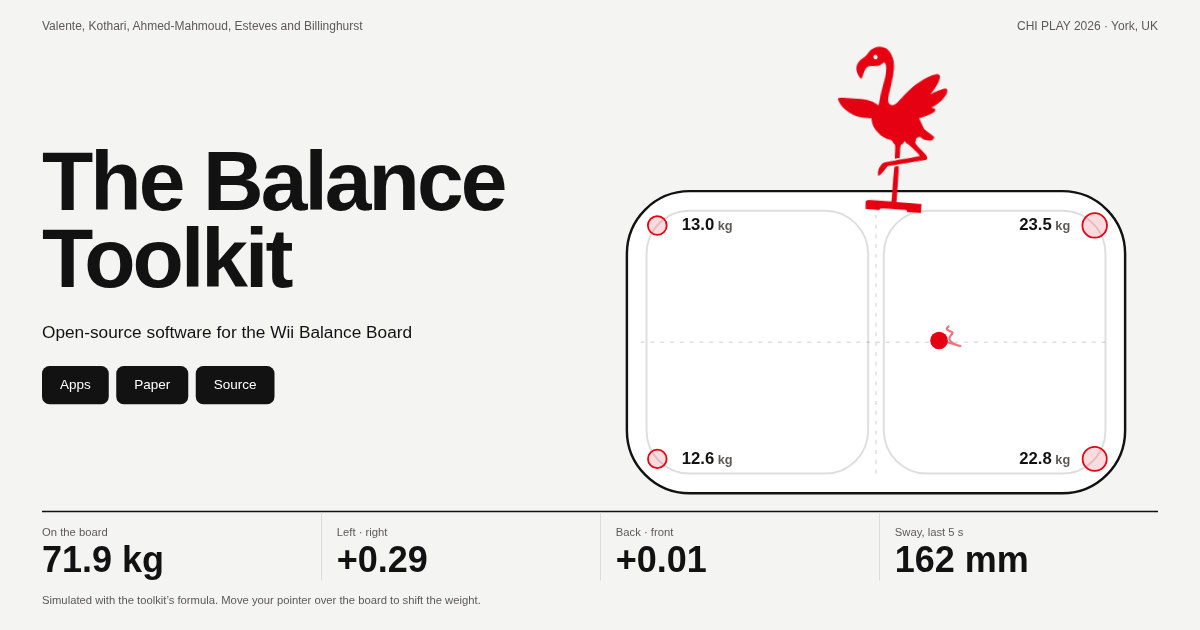
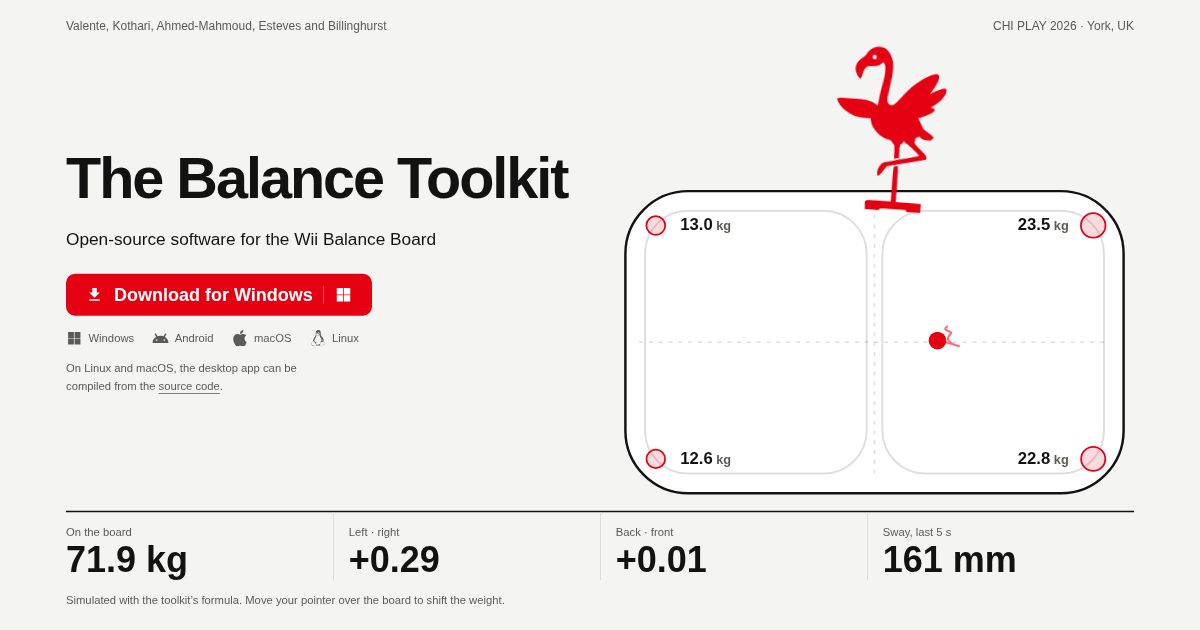
feat(website): put the download on the cover and embed the walkthrough
- Move the download to the cover: a red Download for Windows button (Android
  for Android visitors) and Windows, Android, macOS and Linux links, with the
  note that Linux and macOS build from source. Drop the old buttons, the
  footer links and the What's in the toolkit heading.
- Embed the YouTube walkthrough below the two recordings. It shows a local
  thumbnail and loads the youtube-nocookie player only when played.
- Keep the title on one line, narrow the side margins and cap the content at
  1640px; regenerate og.png.

diff --git a/website/index.html b/website/index.html
@@ -42,8 +42,8 @@ a { color: inherit; }
 /* The app's colours (white ground, ink, one red) and font, and its flamingo. */
 :root {
   --bg: #f4f4f2; --paper: #fff; --ink: #121212; --muted: #5b5a56; --rule: #d9d6cf;
-  --red: #e50012;
-  --pad: clamp(16px, 4vw, 56px);
+  --red: #e50012; --red-dark: #b8000e;
+  --pad: max(clamp(18px, 5.5vw, 88px), (100% - 1640px) / 2); /* side margins; content stops at 1640px and centres */
   --font: -apple-system, BlinkMacSystemFont, "Segoe UI", "Inter", "Roboto", "Helvetica Neue", Arial, sans-serif;
 }
 body { background: var(--bg); color: var(--ink); font: 400 18px/1.6 var(--font); }
@@ -63,11 +63,19 @@ p { margin: 0; }
 .live dt { font-size: 15px; color: var(--muted); }
 .live dd { margin: 0; font: 600 clamp(30px, 3vw, 48px)/1.1 var(--font); font-variant-numeric: tabular-nums; }
 .hint { grid-column: 1 / -1; margin-top: 14px; font-size: 15px; color: var(--muted); }
-.cover h1 { font-size: clamp(52px, 7vw, 120px); line-height: .92; letter-spacing: -.035em; margin-bottom: 28px; max-width: 6em; }
+.cover h1 { font-size: clamp(40px, 4.8vw, 84px); line-height: .92; letter-spacing: -.035em; margin-bottom: 28px; white-space: nowrap; }
 .lead { font-size: clamp(19px, 1.5vw, 23px); max-width: 40ch; margin-bottom: 28px; }
-.go { display: flex; flex-wrap: wrap; gap: 10px; }
-.btn { padding: 11px 24px; border-radius: 10px; background: var(--ink); color: #fff; font-weight: 500; text-decoration: none; transition: background .16s, transform .1s; }
-.btn:hover { background: var(--red); } .btn:active { transform: scale(.96); }
+
+/* Cover: one large download, its details, then every platform */
+.dl { display: inline-flex; align-items: center; gap: 14px; padding: 16px 26px; white-space: nowrap; border-radius: 12px; background: var(--red); color: #fff; font: 600 clamp(19px, 1.6vw, 24px)/1 var(--font); text-decoration: none; transition: background .16s, transform .1s; }
+.dl:hover { background: var(--red-dark); } .dl:active { transform: scale(.97); }
+.dl svg { width: 1em; height: 1em; fill: currentColor; flex: none; }
+.dl-os { display: flex; padding-left: 14px; border-left: 1px solid rgb(255 255 255 / .4); }
+.plat { list-style: none; display: flex; flex-wrap: wrap; gap: 8px 24px; padding: 0; margin: 18px 0 0; }
+.plat a { display: inline-flex; align-items: center; gap: 8px; color: var(--muted); font-size: 15px; text-decoration: none; transition: color .16s; }
+.plat a:hover { color: var(--red); }
+.plat svg { width: 22px; height: 22px; fill: currentColor; }
+.note { max-width: 40ch; margin-top: 8px; font-size: 15px; color: var(--muted); }
 
 /* The stage is centred in the space beside the title, and shrinks on short screens so the whole cover fits in one view. */
 .stage { display: grid; justify-items: center; justify-self: center; width: min(100%, clamp(400px, 131svh - 398px, 680px)); container-type: inline-size; }
@@ -87,21 +95,24 @@ p { margin: 0; }
 .sec { padding: clamp(64px, 8vw, 120px) var(--pad); border-top: 1px solid var(--ink); }
 .sec-head { display: grid; grid-template-columns: minmax(0, 1fr) minmax(0, 1.4fr); gap: 32px; align-items: end; margin-bottom: clamp(32px, 4vw, 56px); }
 .sec-head h2 { font-size: clamp(40px, 5vw, 76px); line-height: .95; }
+.sec-head > h2:only-child { grid-column: 1 / -1; } /* a heading alone in its row takes the full width, on one line */
 .sec-head p { max-width: 48ch; }
 
-/* Apps: screenshots */
-.shots { display: grid; grid-template-columns: repeat(2, minmax(0, 1fr)); gap: 16px; margin-bottom: clamp(32px, 4vw, 56px); }
+/* Apps: the two screen recordings side by side, and below them, centred at 7/12 of the width,
+   the walkthrough, which loads YouTube only when played. */
+.shots { display: grid; grid-template-columns: repeat(2, minmax(0, 1fr)); gap: 16px; }
 .shots video { width: 100%; height: auto; border-radius: 16px; background: var(--paper); }
+.shots .film { grid-column: 1 / -1; justify-self: center; width: calc((100% - 32px) * 7 / 12); margin-top: clamp(8px, 2.5vw, 32px); }
+.film { position: relative; display: block; aspect-ratio: 16 / 9; border-radius: 16px; overflow: hidden; background: var(--ink); }
+.film img, .film iframe { display: block; width: 100%; height: 100%; object-fit: cover; border: 0; }
+.film-play { position: absolute; inset: 0; margin: auto; display: grid; place-items: center; width: clamp(56px, 5vw, 80px); aspect-ratio: 1; border-radius: 50%; background: var(--red); transition: transform .2s, background .16s; }
+.film:hover .film-play { transform: scale(1.08); background: var(--red-dark); }
+.film-play svg { width: 42%; height: 42%; margin-left: 6%; fill: #fff; }
 
 /* Entrances: content is visible without script; with it, parts rise in turn */
 .js .rv { opacity: 0; transform: translateY(24px); transition: opacity .7s cubic-bezier(.16,1,.3,1), transform .7s cubic-bezier(.16,1,.3,1); transition-delay: var(--d, 0ms); }
 .js .rv.in { opacity: 1; transform: none; }
 
-/* Apps: the link rows of the current site */
-.rows { list-style: none; padding: 0; margin: 0; border-top: 1px solid var(--ink); }
-.rows a { display: block; padding: 18px 0; border-bottom: 1px solid var(--rule); font: 600 clamp(24px, 2.4vw, 34px)/1.1 var(--font); text-decoration: none; transition: padding .2s, color .16s; }
-.rows a:hover { color: var(--red); padding-left: 10px; }
-.note { margin-top: 20px; font-size: 17px; color: var(--muted); }
 
 /* Paper */
 .bib { background: var(--paper); border-radius: 20px; overflow: hidden; }
@@ -114,10 +125,10 @@ p { margin: 0; }
 .end { display: flex; justify-content: space-between; align-items: center; flex-wrap: wrap; gap: 12px 24px; padding: 22px var(--pad); border-top: 1px solid var(--rule); font-size: 15px; color: var(--muted); }
 .end span { display: flex; align-items: center; gap: 10px; }
 .end img { height: 21px; width: auto; }
-.end nav { display: flex; gap: 22px; }
 
 @media (max-width: 860px) {
   .cover, .sec-head { grid-template-columns: 1fr; }
+  .cover h1, .sec-head h2 { font-size: 9vw; } /* the longest heading (about 9em) still fits one line */
   .cover { min-height: 0; grid-template-rows: none; }
   .stage { justify-self: center; width: min(100%, 680px); }
   .byline { flex-direction: column; margin-bottom: 28px; }
@@ -125,11 +136,25 @@ p { margin: 0; }
   .live div:nth-child(3) { border-left: 0; padding-left: 0; }
   .bird { height: 150px; }
   .shots { grid-template-columns: 1fr; }
+  .shots .film { width: 100%; }
+  .dl { font-size: 19px; padding: 16px 22px; gap: 12px; }
+  .plat { gap: 8px 12px; }
+  .plat a { font-size: 14px; gap: 5px; }
+  .plat svg { width: 18px; height: 18px; }
 }
 @media (prefers-reduced-motion: reduce) { .js .rv { opacity: 1; transform: none; transition: none; } .bird { transition: opacity .4s; } }
 </style>
 </head>
 <body>
+<!-- Icons. Android, Apple and Linux paths from Simple Icons (CC0). -->
+<svg width="0" height="0" style="position: absolute" aria-hidden="true">
+<symbol id="i-down" viewBox="0 0 24 24"><path d="M5 20h14v-2H5v2zM19 9h-4V3H9v6H5l7 7 7-7z"/></symbol>
+<symbol id="i-play" viewBox="0 0 24 24"><path d="M7 4.5v15L19.5 12z"/></symbol>
+<symbol id="i-windows"viewBox="0 0 24 24"><path d="M3 3h8.5v8.5H3zM12.5 3H21v8.5h-8.5zM3 12.5h8.5V21H3zM12.5 12.5H21V21h-8.5z"/></symbol>
+<symbol id="i-android" viewBox="0 0 24 24"><path d="M18.4395 5.5586c-.675 1.1664-1.352 2.3318-2.0274 3.498-.0366-.0155-.0742-.0286-.1113-.043-1.8249-.6957-3.484-.8-4.42-.787-1.8551.0185-3.3544.4643-4.2597.8203-.084-.1494-1.7526-3.021-2.0215-3.4864a1.1451 1.1451 0 0 0-.1406-.1914c-.3312-.364-.9054-.4859-1.379-.203-.475.282-.7136.9361-.3886 1.5019 1.9466 3.3696-.0966-.2158 1.9473 3.3593.0172.031-.4946.2642-1.3926 1.0177C2.8987 12.176.452 14.772 0 18.9902h24c-.119-1.1108-.3686-2.099-.7461-3.0683-.7438-1.9118-1.8435-3.2928-2.7402-4.1836a12.1048 12.1048 0 0 0-2.1309-1.6875c.6594-1.122 1.312-2.2559 1.9649-3.3848.2077-.3615.1886-.7956-.0079-1.1191a1.1001 1.1001 0 0 0-.8515-.5332c-.5225-.0536-.9392.3128-1.0488.5449zm-.0391 8.461c.3944.5926.324 1.3306-.1563 1.6503-.4799.3197-1.188.0985-1.582-.4941-.3944-.5927-.324-1.3307.1563-1.6504.4727-.315 1.1812-.1086 1.582.4941zM7.207 13.5273c.4803.3197.5506 1.0577.1563 1.6504-.394.5926-1.1038.8138-1.584.4941-.48-.3197-.5503-1.0577-.1563-1.6504.4008-.6021 1.1087-.8106 1.584-.4941z"/></symbol>
+<symbol id="i-apple" viewBox="0 0 24 24"><path d="M12.152 6.896c-.948 0-2.415-1.078-3.96-1.04-2.04.027-3.91 1.183-4.961 3.014-2.117 3.675-.546 9.103 1.519 12.09 1.013 1.454 2.208 3.09 3.792 3.039 1.52-.065 2.09-.987 3.935-.987 1.831 0 2.35.987 3.96.948 1.637-.026 2.676-1.48 3.676-2.948 1.156-1.688 1.636-3.325 1.662-3.415-.039-.013-3.182-1.221-3.22-4.857-.026-3.04 2.48-4.494 2.597-4.559-1.429-2.09-3.623-2.324-4.39-2.376-2-.156-3.675 1.09-4.61 1.09zM15.53 3.83c.843-1.012 1.4-2.427 1.245-3.83-1.207.052-2.662.805-3.532 1.818-.78.896-1.454 2.338-1.273 3.714 1.338.104 2.715-.688 3.559-1.701"/></symbol>
+<symbol id="i-linux" viewBox="0 0 24 24"><path d="M12.504 0c-.155 0-.315.008-.48.021-4.226.333-3.105 4.807-3.17 6.298-.076 1.092-.3 1.953-1.05 3.02-.885 1.051-2.127 2.75-2.716 4.521-.278.832-.41 1.684-.287 2.489a.424.424 0 00-.11.135c-.26.268-.45.6-.663.839-.199.199-.485.267-.797.4-.313.136-.658.269-.864.68-.09.189-.136.394-.132.602 0 .199.027.4.055.536.058.399.116.728.04.97-.249.68-.28 1.145-.106 1.484.174.334.535.47.94.601.81.2 1.91.135 2.774.6.926.466 1.866.67 2.616.47.526-.116.97-.464 1.208-.946.587-.003 1.23-.269 2.26-.334.699-.058 1.574.267 2.577.2.025.134.063.198.114.333l.003.003c.391.778 1.113 1.132 1.884 1.071.771-.06 1.592-.536 2.257-1.306.631-.765 1.683-1.084 2.378-1.503.348-.199.629-.469.649-.853.023-.4-.2-.811-.714-1.376v-.097l-.003-.003c-.17-.2-.25-.535-.338-.926-.085-.401-.182-.786-.492-1.046h-.003c-.059-.054-.123-.067-.188-.135a.357.357 0 00-.19-.064c.431-1.278.264-2.55-.173-3.694-.533-1.41-1.465-2.638-2.175-3.483-.796-1.005-1.576-1.957-1.56-3.368.026-2.152.236-6.133-3.544-6.139zm.529 3.405h.013c.213 0 .396.062.584.198.19.135.33.332.438.533.105.259.158.459.166.724 0-.02.006-.04.006-.06v.105a.086.086 0 01-.004-.021l-.004-.024a1.807 1.807 0 01-.15.706.953.953 0 01-.213.335.71.71 0 00-.088-.042c-.104-.045-.198-.064-.284-.133a1.312 1.312 0 00-.22-.066c.05-.06.146-.133.183-.198.053-.128.082-.264.088-.402v-.02a1.21 1.21 0 00-.061-.4c-.045-.134-.101-.2-.183-.333-.084-.066-.167-.132-.267-.132h-.016c-.093 0-.176.03-.262.132a.8.8 0 00-.205.334 1.18 1.18 0 00-.09.4v.019c.002.089.008.179.02.267-.193-.067-.438-.135-.607-.202a1.635 1.635 0 01-.018-.2v-.02a1.772 1.772 0 01.15-.768c.082-.22.232-.406.43-.533a.985.985 0 01.594-.2zm-2.962.059h.036c.142 0 .27.048.399.135.146.129.264.288.344.465.09.199.14.4.153.667v.004c.007.134.006.2-.002.266v.08c-.03.007-.056.018-.083.024-.152.055-.274.135-.393.2.012-.09.013-.18.003-.267v-.015c-.012-.133-.04-.2-.082-.333a.613.613 0 00-.166-.267.248.248 0 00-.183-.064h-.021c-.071.006-.13.04-.186.132a.552.552 0 00-.12.27.944.944 0 00-.023.33v.015c.012.135.037.2.08.334.046.134.098.2.166.268.01.009.02.018.034.024-.07.057-.117.07-.176.136a.304.304 0 01-.131.068 2.62 2.62 0 01-.275-.402 1.772 1.772 0 01-.155-.667 1.759 1.759 0 01.08-.668 1.43 1.43 0 01.283-.535c.128-.133.26-.2.418-.2zm1.37 1.706c.332 0 .733.065 1.216.399.293.2.523.269 1.052.468h.003c.255.136.405.266.478.399v-.131a.571.571 0 01.016.47c-.123.31-.516.643-1.063.842v.002c-.268.135-.501.333-.775.465-.276.135-.588.292-1.012.267a1.139 1.139 0 01-.448-.067 3.566 3.566 0 01-.322-.198c-.195-.135-.363-.332-.612-.465v-.005h-.005c-.4-.246-.616-.512-.686-.71-.07-.268-.005-.47.193-.6.224-.135.38-.271.483-.336.104-.074.143-.102.176-.131h.002v-.003c.169-.202.436-.47.839-.601.139-.036.294-.065.466-.065zm2.8 2.142c.358 1.417 1.196 3.475 1.735 4.473.286.534.855 1.659 1.102 3.024.156-.005.33.018.513.064.646-1.671-.546-3.467-1.089-3.966-.22-.2-.232-.335-.123-.335.59.534 1.365 1.572 1.646 2.757.13.535.16 1.104.021 1.67.067.028.135.06.205.067 1.032.534 1.413.938 1.23 1.537v-.043c-.06-.003-.12 0-.18 0h-.016c.151-.467-.182-.825-1.065-1.224-.915-.4-1.646-.336-1.77.465-.008.043-.013.066-.018.135-.068.023-.139.053-.209.064-.43.268-.662.669-.793 1.187-.13.533-.17 1.156-.205 1.869v.003c-.02.334-.17.838-.319 1.35-1.5 1.072-3.58 1.538-5.348.334a2.645 2.645 0 00-.402-.533 1.45 1.45 0 00-.275-.333c.182 0 .338-.03.465-.067a.615.615 0 00.314-.334c.108-.267 0-.697-.345-1.163-.345-.467-.931-.995-1.788-1.521-.63-.4-.986-.87-1.15-1.396-.165-.534-.143-1.085-.015-1.645.245-1.07.873-2.11 1.274-2.763.107-.065.037.135-.408.974-.396.751-1.14 2.497-.122 3.854a8.123 8.123 0 01.647-2.876c.564-1.278 1.743-3.504 1.836-5.268.048.036.217.135.289.202.218.133.38.333.59.465.21.201.477.335.876.335.039.003.075.006.11.006.412 0 .73-.134.997-.268.29-.134.52-.334.74-.4h.005c.467-.135.835-.402 1.044-.7zm2.185 8.958c.037.6.343 1.245.882 1.377.588.134 1.434-.333 1.791-.765l.211-.01c.315-.007.577.01.847.268l.003.003c.208.199.305.53.391.876.085.4.154.78.409 1.066.486.527.645.906.636 1.14l.003-.007v.018l-.003-.012c-.015.262-.185.396-.498.595-.63.401-1.746.712-2.457 1.57-.618.737-1.37 1.14-2.036 1.191-.664.053-1.237-.2-1.574-.898l-.005-.003c-.21-.4-.12-1.025.056-1.69.176-.668.428-1.344.463-1.897.037-.714.076-1.335.195-1.814.12-.465.308-.797.641-.984l.045-.022zm-10.814.049h.01c.053 0 .105.005.157.014.376.055.706.333 1.023.752l.91 1.664.003.003c.243.533.754 1.064 1.189 1.637.434.598.77 1.131.729 1.57v.006c-.057.744-.48 1.148-1.125 1.294-.645.135-1.52.002-2.395-.464-.968-.536-2.118-.469-2.857-.602-.369-.066-.61-.2-.723-.4-.11-.2-.113-.602.123-1.23v-.004l.002-.003c.117-.334.03-.752-.027-1.118-.055-.401-.083-.71.043-.94.16-.334.396-.4.69-.533.294-.135.64-.202.915-.47h.002v-.002c.256-.268.445-.601.668-.838.19-.201.38-.336.663-.336zm7.159-9.074c-.435.201-.945.535-1.488.535-.542 0-.97-.267-1.28-.466-.154-.134-.28-.268-.373-.335-.164-.134-.144-.333-.074-.333.109.016.129.134.199.2.096.066.215.2.36.333.292.2.68.467 1.167.467.485 0 1.053-.267 1.398-.466.195-.135.445-.334.648-.467.156-.136.149-.267.279-.267.128.016.034.134-.147.332a8.097 8.097 0 01-.69.468zm-1.082-1.583V5.64c-.006-.02.013-.042.029-.05.074-.043.18-.027.26.004.063 0 .16.067.15.135-.006.049-.085.066-.135.066-.055 0-.092-.043-.141-.068-.052-.018-.146-.008-.163-.065zm-.551 0c-.02.058-.113.049-.166.066-.047.025-.086.068-.14.068-.05 0-.13-.02-.136-.068-.01-.066.088-.133.15-.133.08-.031.184-.047.259-.005.019.009.036.03.03.05v.02h.003z"/></symbol>
+</svg>
 
 <main id="top">
 <section class="cover">
@@ -137,7 +162,16 @@ p { margin: 0; }
   <div class="intro">
     <h1>The Balance Toolkit</h1>
     <p class="lead">Open-source software for the Wii Balance Board</p>
-    <p class="go"><a class="btn" href="#apps">Apps</a><a class="btn" href="https://andreia-valente.com/publications/valente2026balance">Paper</a><a class="btn" href="https://github.com/trecitano/The-Balance-Toolkit">Source</a></p>
+    <div class="get">
+      <a class="dl" id="dl" href="https://github.com/AndreiaValente/The-Balance-Toolkit-Apps/raw/main/windows/the-balance-toolkit.exe"><svg aria-hidden="true"><use href="#i-down"/></svg><span id="dl-label">Download for Windows</span><span class="dl-os" id="dl-os" aria-hidden="true"><svg><use href="#i-windows"/></svg></span></a>
+      <ul class="plat" aria-label="All platforms">
+        <li><a href="https://github.com/AndreiaValente/The-Balance-Toolkit-Apps/raw/main/windows/the-balance-toolkit.exe"><svg aria-hidden="true"><use href="#i-windows"/></svg>Windows</a></li>
+        <li><a href="https://github.com/AndreiaValente/The-Balance-Toolkit-Apps/raw/main/android/the-balance-toolkit.apk"><svg aria-hidden="true"><use href="#i-android"/></svg>Android</a></li>
+        <li><a href="https://github.com/trecitano/The-Balance-Toolkit/blob/main/INSTALL.md"><svg aria-hidden="true"><use href="#i-apple"/></svg>macOS</a></li>
+        <li><a href="https://github.com/trecitano/The-Balance-Toolkit/blob/main/INSTALL.md"><svg aria-hidden="true"><use href="#i-linux"/></svg>Linux</a></li>
+      </ul>
+      <p class="note">On Linux and macOS, the desktop app can be compiled from the <a class="link" href="https://github.com/trecitano/The-Balance-Toolkit/blob/main/INSTALL.md">source code</a>.</p>
+    </div>
   </div>
   <div class="stage">
     <img class="bird" id="bird" src="assets/art/logo-flamingo-red.svg" alt="The toolkit's flamingo, leaning with the centre of pressure" width="200" height="300">
@@ -152,20 +186,12 @@ p { margin: 0; }
   <p class="hint">Simulated with the toolkit’s formula. Move your pointer over the board to shift the weight.</p>
 </section>
 
-<section class="sec" id="apps">
-  <div class="sec-head">
-    <h2>What’s in the toolkit</h2>
-  </div>
+<section class="sec" id="apps" aria-label="The apps">
   <div class="shots">
     <video src="assets/own/app-session.webm" poster="assets/own/app-session.webp" aria-label="The desktop app recording a session, with live plots of the centre of pressure" width="1104" height="675" autoplay muted loop playsinline></video>
     <video src="assets/own/app-activities.webm" poster="assets/own/app-activities.webp" aria-label="The desktop app's list of activities, opening two of them to show their steps" width="1104" height="675" autoplay muted loop playsinline></video>
+    <a class="film" id="film" href="https://youtu.be/_8UwrUgqUao" aria-label="Play the video walkthrough"><img src="assets/own/walkthrough.webp" alt="" width="1280" height="720" loading="lazy"><span class="film-play" aria-hidden="true"><svg><use href="#i-play"/></svg></span></a>
   </div>
-  <ul class="rows">
-    <li><a href="https://github.com/AndreiaValente/The-Balance-Toolkit-Apps/raw/main/windows/the-balance-toolkit.exe">Windows app</a></li>
-    <li><a href="https://github.com/AndreiaValente/The-Balance-Toolkit-Apps/raw/main/android/the-balance-toolkit.apk">Android app</a></li>
-    <li><a href="https://youtu.be/_8UwrUgqUao">Video walkthrough</a></li>
-  </ul>
-  <p class="note">On Linux and macOS, the desktop app can be compiled from the <a class="link" href="https://github.com/trecitano/The-Balance-Toolkit/blob/main/INSTALL.md">source code</a>.</p>
 </section>
 
 <section class="sec" id="paper" aria-labelledby="cite-h">
@@ -188,14 +214,13 @@ p { margin: 0; }
 
 <footer class="end">
   <span><img src="assets/art/logo-flamingo-red.svg" alt="" width="14" height="21">Empathic Computing Laboratory, University of Auckland</span>
-  <nav aria-label="Links"><a class="link" href="https://github.com/AndreiaValente/The-Balance-Toolkit-Apps">Download the apps</a><a class="link" href="https://github.com/trecitano/The-Balance-Toolkit">Source</a><a class="link" href="https://youtu.be/_8UwrUgqUao">Video</a></nav>
 </footer>
 
 <script src="board.js"></script>
 <script>
 // Section entrances: each part rises in turn when its section comes into view.
 document.documentElement.classList.add('js');
-const parts = document.querySelectorAll('.intro, .stage, .live, .hint, .sec-head > *, .shots video, .rows li, .note, .bib');
+const parts = document.querySelectorAll('.intro, .stage, .live, .hint, .sec-head > *, .shots > *, .bib');
 parts.forEach((el) => { el.classList.add('rv'); el.style.setProperty('--d', `${[...el.parentNode.children].indexOf(el) * 70}ms`); });
 const io = new IntersectionObserver((es) => es.forEach((e) => { if (e.isIntersecting) { e.target.classList.add('in'); io.unobserve(e.target); } }), { rootMargin: '0px 0px -8% 0px' });
 // The cover is the first view, so its parts rise on load (after a reflow, so they start hidden); the rest rise on scroll.
@@ -203,6 +228,19 @@ document.body.offsetWidth;
 parts.forEach((el) => (el.closest('.cover') ? el.classList.add('in') : io.observe(el)));
 
 const $ = (id) => document.getElementById(id);
+
+// Download: Android visitors are offered the Android app, everyone else the Windows app.
+if (/Android/i.test(navigator.userAgent)) {
+  $('dl').href = 'https://github.com/AndreiaValente/The-Balance-Toolkit-Apps/raw/main/android/the-balance-toolkit.apk';
+  $('dl-label').textContent = 'Download for Android';
+  $('dl-os').innerHTML = '<svg><use href="#i-android"/></svg>';
+}
+
+// Walkthrough: swap the thumbnail for YouTube's player only when it is played, so nothing loads from YouTube before.
+$('film').addEventListener('click', (e) => {
+  e.preventDefault();
+  $('film').innerHTML = '<iframe src="https://www.youtube-nocookie.com/embed/_8UwrUgqUao?autoplay=1&rel=0" title="The Balance Toolkit: video walk-through" allow="autoplay; encrypted-media; picture-in-picture; fullscreen" allowfullscreen></iframe>';
+}, { once: true });
 
 // Screen recordings: still, with controls, for visitors who ask for reduced motion.
 if (TBT.reduced) document.querySelectorAll('.shots video').forEach((v) => { v.removeAttribute('autoplay'); v.pause(); v.controls = true; });
